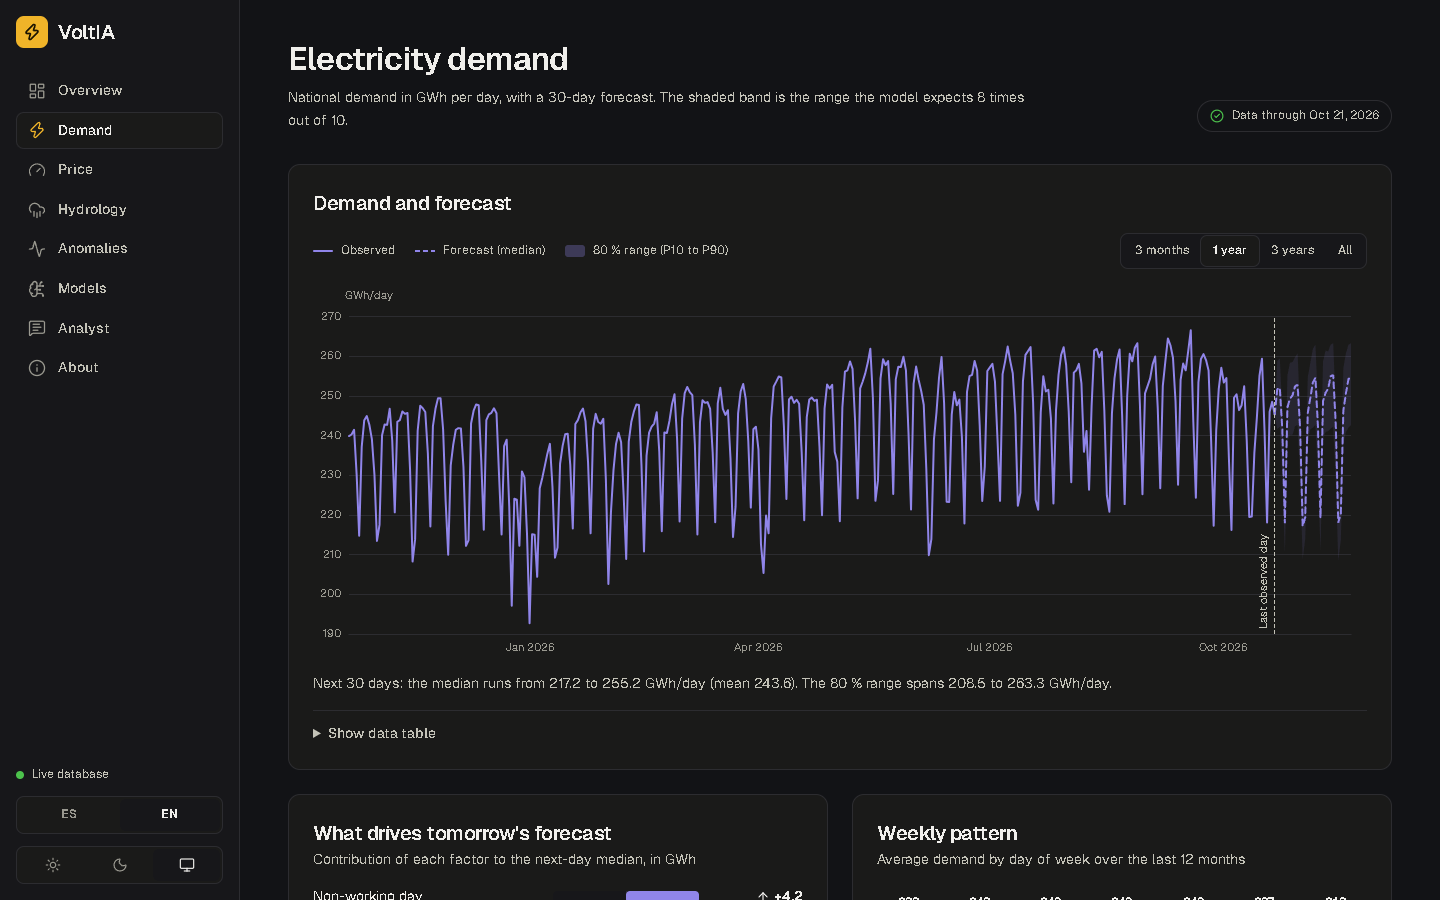
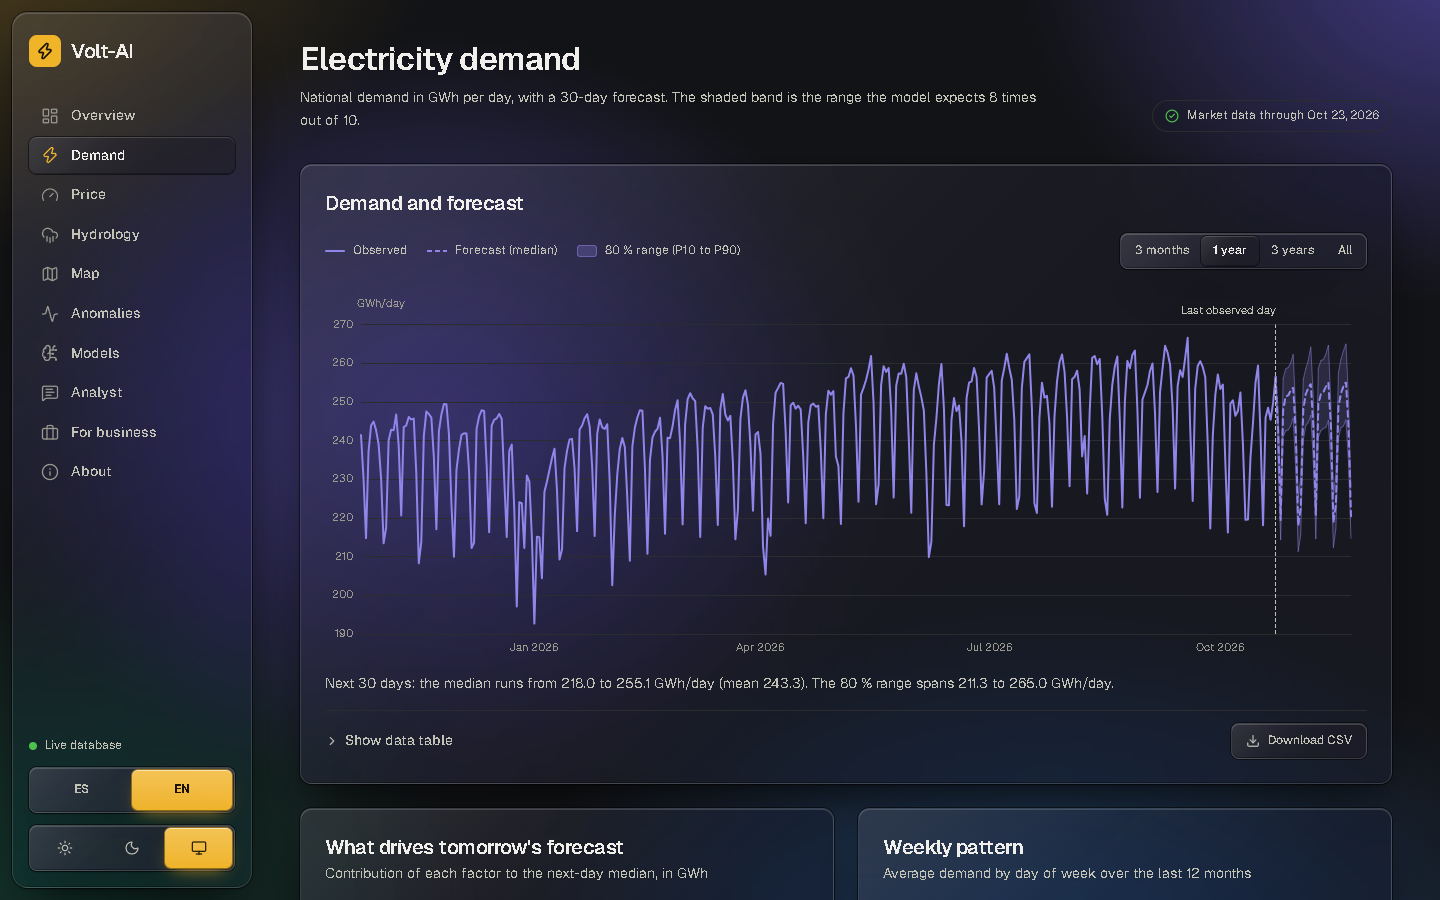
Refresh the README screenshots from the live site, exclude the research environment from Dependabot, add LinkedIn, CV and post texts

diff --git a/docs/comercial/presencia-linkedin.md b/docs/comercial/presencia-linkedin.md
@@ -1,0 +1,122 @@
+# Presencia pública: LinkedIn, CV y publicación
+
+Para Miguel. Textos listos para pegar, en español e inglés. Complementan el [guion de contacto](guion-contacto.es.md), que cubre los mensajes directos y la llamada.
+
+**Antes de publicar, revisa las cifras.** Cambian con cada corrida de entrenamiento. Ábrelas en <https://voltia-xi-five.vercel.app/es/business> el día que publiques; las de abajo son las del 26 de octubre de 2026 (50 fechas pasadas de prueba).
+
+| Medida | Modelo | Referencia simple | ETS |
+| --- | --- | --- | --- |
+| Demanda, error medio (MAPE) | 1,9 % | 3,4 % | 3,4 % |
+| Precio, 1 a 3 días | 10,7 % | 29,8 % | 15,3 % |
+| Precio, 4 a 7 días | 21,2 % | 33,1 % | 29,2 % |
+| Precio, 8 a 14 días | 40,0 % | 50,0 % | 45,3 % |
+
+Lo que **no** debes decir: que el historial en vivo "demuestra" algo (todavía es corto), que el precio gana en todos los horizontes (pasada una semana queda a la par con ETS), que recomiendas comprar o vender, ni que eres ingeniero (di "desarrollador de datos e IA").
+
+## Titular de LinkedIn
+
+- ES: `Desarrollador de datos e IA · Pronóstico de demanda y precio de bolsa de energía en Colombia · Volt-AI`
+- EN: `Data & AI developer · Colombian power-market demand and spot-price forecasting · Volt-AI`
+
+## Sección "Acerca de"
+
+**ES**
+
+> Construyo sistemas que convierten datos públicos en decisiones. Mi proyecto más reciente es Volt-AI: pronostica cada día la demanda de electricidad de Colombia (30 días) y el precio de bolsa (14 días) con su rango de incertidumbre, y guarda cada pronóstico tal como lo emitió para evaluarlo en público.
+>
+> En 50 fechas pasadas que el modelo no había visto, el error medio de la demanda es 1,9 %, frente a 3,4 % de una referencia simple. El precio supera a las dos referencias en los primeros días; pasada una semana queda a la par con un método estadístico sólido, y el sitio lo dice así.
+>
+> Python (pipeline diario, LightGBM, backtesting), PostgreSQL, Next.js, y un analista de IA que responde solo con consultas validadas.
+>
+> Si compras o vendes energía en Colombia y quieres ver si encaja en tu caso: miguelangel.14130@gmail.com
+
+**EN**
+
+> I build systems that turn public data into decisions. My latest project is Volt-AI: every day it forecasts Colombian electricity demand (30 days) and the spot price (14 days) with an uncertainty range, and stores each forecast as first issued so it can be scored in public.
+>
+> Over 50 past dates the model had not seen, demand error averages 1.9 % against 3.4 % for a simple reference. The price beats both references in the first days and stays level with a strong statistical method beyond a week, and the site says so.
+>
+> Python (daily pipeline, LightGBM, backtesting), PostgreSQL, Next.js and an AI analyst that answers only through validated lookups.
+>
+> If you buy or sell energy in Colombia and want to see whether it fits your case: miguelangel.14130@gmail.com
+
+## Proyecto en "Experiencia" o "Proyectos" (viñetas para el CV)
+
+**ES**
+
+- Diseñé y operé un pipeline diario (Python, GitHub Actions, PostgreSQL) que descarga datos públicos de XM, los valida, entrena modelos y publica pronósticos de demanda y precio con intervalos calibrados.
+- Evalué con backtesting en 50 fechas fijas del calendario frente a dos referencias: error medio de demanda de 1,9 % contra 3,4 %, e intervalos del 80 % con cobertura medida cercana a 0,8.
+- Reuní la evidencia de lo que no funcionó (50 candidatos de precio, entre ellos ensambles, redes y modelos de series de tiempo) y la publiqué en la ficha del modelo.
+- Publiqué el sitio (Next.js, español e inglés) con una API REST, rol de base de datos de solo lectura, CSP estricta, CodeQL y respaldo semanal de los datos que no se pueden recuperar.
+- Construí un analista de IA limitado a herramientas tipadas que nunca ejecuta SQL libre.
+
+**EN**
+
+- Designed and ran a daily pipeline (Python, GitHub Actions, PostgreSQL) that fetches XM public data, validates it, trains models and publishes demand and price forecasts with calibrated intervals.
+- Evaluated with backtesting on 50 fixed calendar dates against two references: demand error 1.9 % against 3.4 %, and 80 % intervals with measured coverage close to 0.8.
+- Documented what did not work (50 price candidates, including ensembles, neural nets and time-series models) in the public model card.
+- Shipped the site (Next.js, Spanish and English) with a REST API, a read-only database role, strict CSP, CodeQL and a weekly backup of the data that cannot be refetched.
+- Built an AI analyst limited to typed tools that never runs free-form SQL.
+
+## Publicación (ES)
+
+> Construí un sistema que pronostica la demanda y el precio de bolsa de la electricidad en Colombia, y lo mide en público.
+>
+> Cada día, Volt-AI guarda su pronóstico antes de que XM publique el resultado, y después lo compara con lo que pasó, con aciertos y errores a la vista.
+>
+> Lo que midió en 50 fechas pasadas que no había visto:
+> • Demanda: error medio de 1,9 % (la referencia simple: 3,4 %)
+> • Precio a 1-3 días: 10,7 % (ETS: 15,3 %; referencia simple: 29,8 %)
+> • Pasada una semana, el precio queda a la par con ETS. Por eso el sitio lo muestra como un rango, no como un número exacto.
+>
+> Probé 50 variantes para bajar el error del precio. La mayoría no ayudó, y eso también está documentado.
+>
+> Si compras o vendes energía en Colombia, la página para empresas tiene la precisión medida y un informe de ejemplo: https://voltia-xi-five.vercel.app/es/business
+>
+> Código y método: https://github.com/Cabranchis/volt-ai
+>
+> #Energía #Colombia #CienciaDeDatos #MercadoEléctrico
+
+## Publicación (EN)
+
+> I built a system that forecasts Colombian electricity demand and spot price, and scores itself in public.
+>
+> Every day Volt-AI stores its forecast before XM publishes the outcome, then compares it with what happened, hits and misses included.
+>
+> Measured on 50 past dates it had not seen:
+> • Demand: 1.9 % mean error (simple reference: 3.4 %)
+> • Price, 1-3 days: 10.7 % (ETS: 15.3 %; simple reference: 29.8 %)
+> • Beyond a week the price is level with ETS, so the site shows it as a range, not a point.
+>
+> I tried 50 variants to lower the price error. Most did not help, and that is documented too.
+>
+> If you buy or sell energy in Colombia, the business page has the measured accuracy and a sample report: https://voltia-xi-five.vercel.app/en/business
+>
+> Code and method: https://github.com/Cabranchis/volt-ai
+>
+> #Energy #Colombia #DataScience #PowerMarkets
+
+## Mensaje directo en inglés (para contactos internacionales)
+
+> Subject: Colombian spot-price forecasts with a public track record
+>
+> Hi <name>,
+>
+> I'm Miguel Angel, a data and AI developer. I built Volt-AI, a system that forecasts Colombia's electricity demand and spot price every day with an uncertainty range, and stores each forecast as first issued so it can be scored in public. The data come from XM.
+>
+> Over 50 past dates it had not seen, demand error averages 1.9 % against 3.4 % for a simple reference, and the price beats both references in the first days (it is level with ETS beyond a week).
+>
+> Would you have 20 minutes to tell me how your team decides on purchases and contracts, and whether a forecast like this would help? Sample report and measured accuracy: https://voltia-xi-five.vercel.app/en/business (the sample report is in Spanish).
+>
+> I keep your name and email only for this conversation; reply and I will delete them if you prefer.
+>
+> Thanks,
+> Miguel Angel
+> miguelangel.14130@gmail.com
+
+## Orden sugerido para la primera semana
+
+1. Día 1: titular y "Acerca de" en LinkedIn, viñetas en el CV, comprobar que el enlace del repo es `Cabranchis/volt-ai`.
+2. Día 2: la publicación (ES o EN, según tu público), a media mañana entre semana.
+3. Días 3 a 7: de 1 a 2 mensajes directos al día con el [guion](guion-contacto.es.md), anotando cada conversación en su registro.
+4. Antes de la primera llamada: abre la página de Modelos y revisa las cifras del día.
